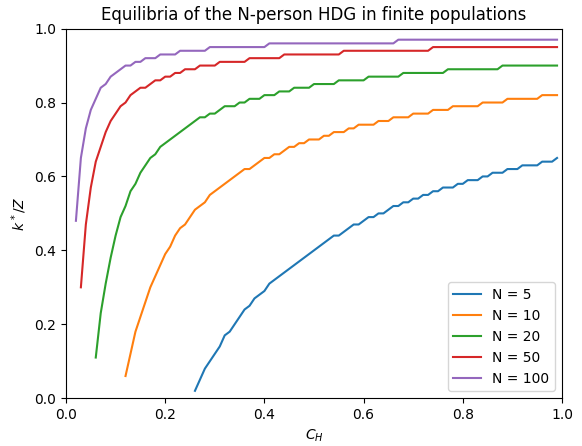
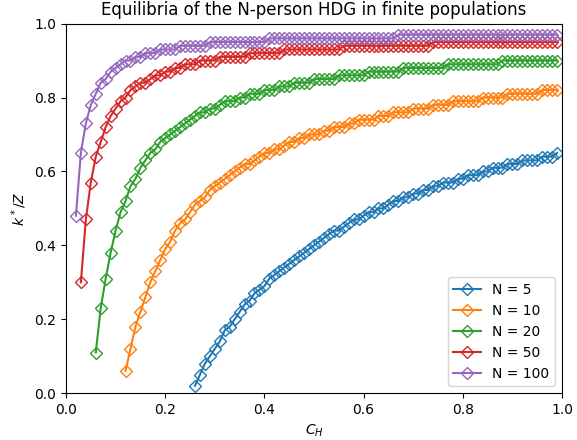
fix finite scatter

Changed region(s): [[0.0624, 0.0, 0.9983, 0.9455], [0.0, 0.4432, 0.0624, 0.5318], [0.5303, 0.9455, 0.5615, 1.0]]

diff --git a/finite_populations.py b/finite_populations.py
@@ -180,7 +180,7 @@ class FiniteNPlayerHDGTDynamics(FiniteNPlayerHDGDynamics):
 
         return T_plus - T_minus
 
-    def compute_hdgt_equilibria_cost_c_h(self, resolution=1000) -> Tuple[Dict, Dict]:
+    def compute_hdgt_equilibria_cost_c_h(self, resolution=100) -> Tuple[Dict, Dict]:
         """Computes stable and unstable equilibria for different c_h values.
 
         Returns
@@ -225,7 +225,7 @@ class FiniteNPlayerHDGTDynamics(FiniteNPlayerHDGDynamics):
                 pass
         return unstable_equilibria, stable_equilibria
     
-    def compute_hdgt_equilibria_cost_c_d(self, resolution=1000) -> Tuple[Dict, Dict]:
+    def compute_hdgt_equilibria_cost_c_d(self, resolution=100) -> Tuple[Dict, Dict]:
         """Computes stable and unstable equilibria for different c_d values.
 
         Returns
@@ -275,17 +275,35 @@ class FiniteNPlayerHDGTDynamics(FiniteNPlayerHDGDynamics):
             print(c_d)
             rep_dyn = FiniteNPlayerHDGTDynamics(Z=Z, N=N, w=1.0, T=T, c_d=c_d)
             un_eq, st_eq = rep_dyn.compute_hdgt_equilibria_cost_c_h()
+            """if (0.0 in st_eq and 1.0 in st_eq):
+                plt.plot(
+                st_eq.keys(),
+                st_eq.values(),
+                linestyle='--',
+                color=color,
+            )
+            if (0.0 in un_eq and 1.0 in un_eq):
+                plt.plot(
+                un_eq.keys(),
+                un_eq.values(),
+                linestyle='--',
+                color=color,
+            )"""
             plt.plot(
                 st_eq.keys(),
                 st_eq.values(),
-                label=f"$c_d={c_d}$ - stable",
+                linestyle='None',
+                marker='o',
+                label=f"$c_D={c_d}$ - stable",
                 color=color,
             )
             plt.plot(
                 un_eq.keys(),
                 un_eq.values(),
-                "--",
-                label=f"$c_d={c_d}$ - unstable",
+                linestyle='None',
+                marker='o',
+                markerfacecolor='None',
+                label=f"$c_D={c_d}$ - unstable",
                 color=color,
             )
         plt.xlim(0, 1)
@@ -304,17 +322,35 @@ class FiniteNPlayerHDGTDynamics(FiniteNPlayerHDGDynamics):
             rep_dyn = FiniteNPlayerHDGTDynamics(Z=Z, N=N, w=1.0, T=T)
             rep_dyn.c_h = c_h
             un_eq, st_eq = rep_dyn.compute_hdgt_equilibria_cost_c_d()
+            """if (0.0 in st_eq and 1.0 in st_eq):
+                plt.plot(
+                st_eq.keys(),
+                st_eq.values(),
+                linestyle='--',
+                color=color,
+            )
+            if (0.0 in un_eq and 1.0 in un_eq):
+                plt.plot(
+                un_eq.keys(),
+                un_eq.values(),
+                linestyle='--',
+                color=color,
+            )"""
             plt.plot(
                 st_eq.keys(),
                 st_eq.values(),
-                label=f"$c_h={c_h}$ - stable",
+                linestyle='None',
+                marker='o',
+                label=f"$c_H={c_h}$ - stable",
                 color=color,
             )
             plt.plot(
                 un_eq.keys(),
                 un_eq.values(),
-                "--",
-                label=f"$c_h={c_h}$ - unstable",
+                linestyle='None',
+                marker='o',
+                markerfacecolor='None',
+                label=f"$c_H={c_h}$ - unstable",
                 color=color,
             )
         plt.xlim(0, 1)
@@ -347,7 +383,7 @@ def plot_equilibria(Z: int, w: float):
 
         finite = FiniteNPlayerHDGDynamics(Z, N, w)
         equilibria = np.array([finite.find_equilibrium(finite.compute_full_gradient(c_h)[1]) for c_h in ch_values])
-        plt.plot(ch_values, equilibria/Z, label=f'N = {N}')
+        plt.plot(ch_values, equilibria/Z, label=f'N = {N}', marker='D', markerfacecolor='None')
 
     plt.xlabel("$C_H$")
     plt.ylabel("$k^*/Z$")
@@ -361,14 +397,14 @@ def plot_equilibria(Z: int, w: float):
 
 if __name__ == "__main__":
     #finite = FiniteNPlayerHDGDynamics(Z=100, )
-    FiniteNPlayerHDGDynamics.plot_hdg_gradient()
+    #FiniteNPlayerHDGDynamics.plot_hdg_gradient()
     #fig, gradient = finite.plot_gradient_selection(0.5)
     #plt.show()
     #gradient[40] = 0.0
     #print(gradient[39:44])
     #print(finite.find_equilibrium(gradient))
     #plot_equilibria(100, 1)
-    #FiniteNPlayerHDGTDynamics.plot_c_d_equilibria(T=0.8)
+    FiniteNPlayerHDGTDynamics.plot_c_d_equilibria(T=0.4)
 
 
 
